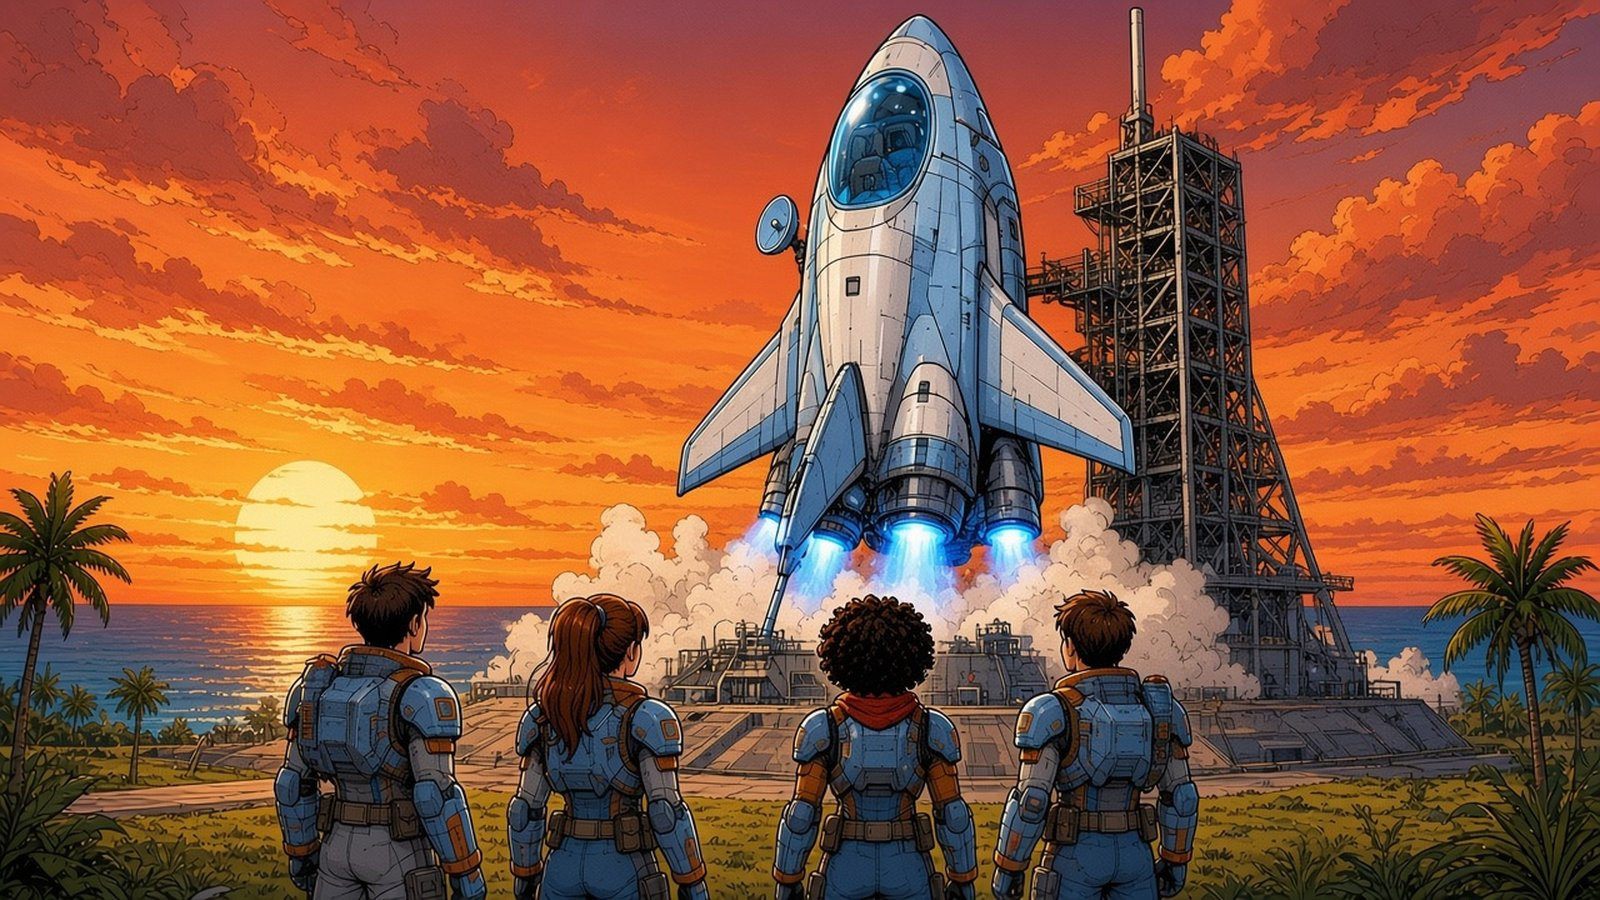
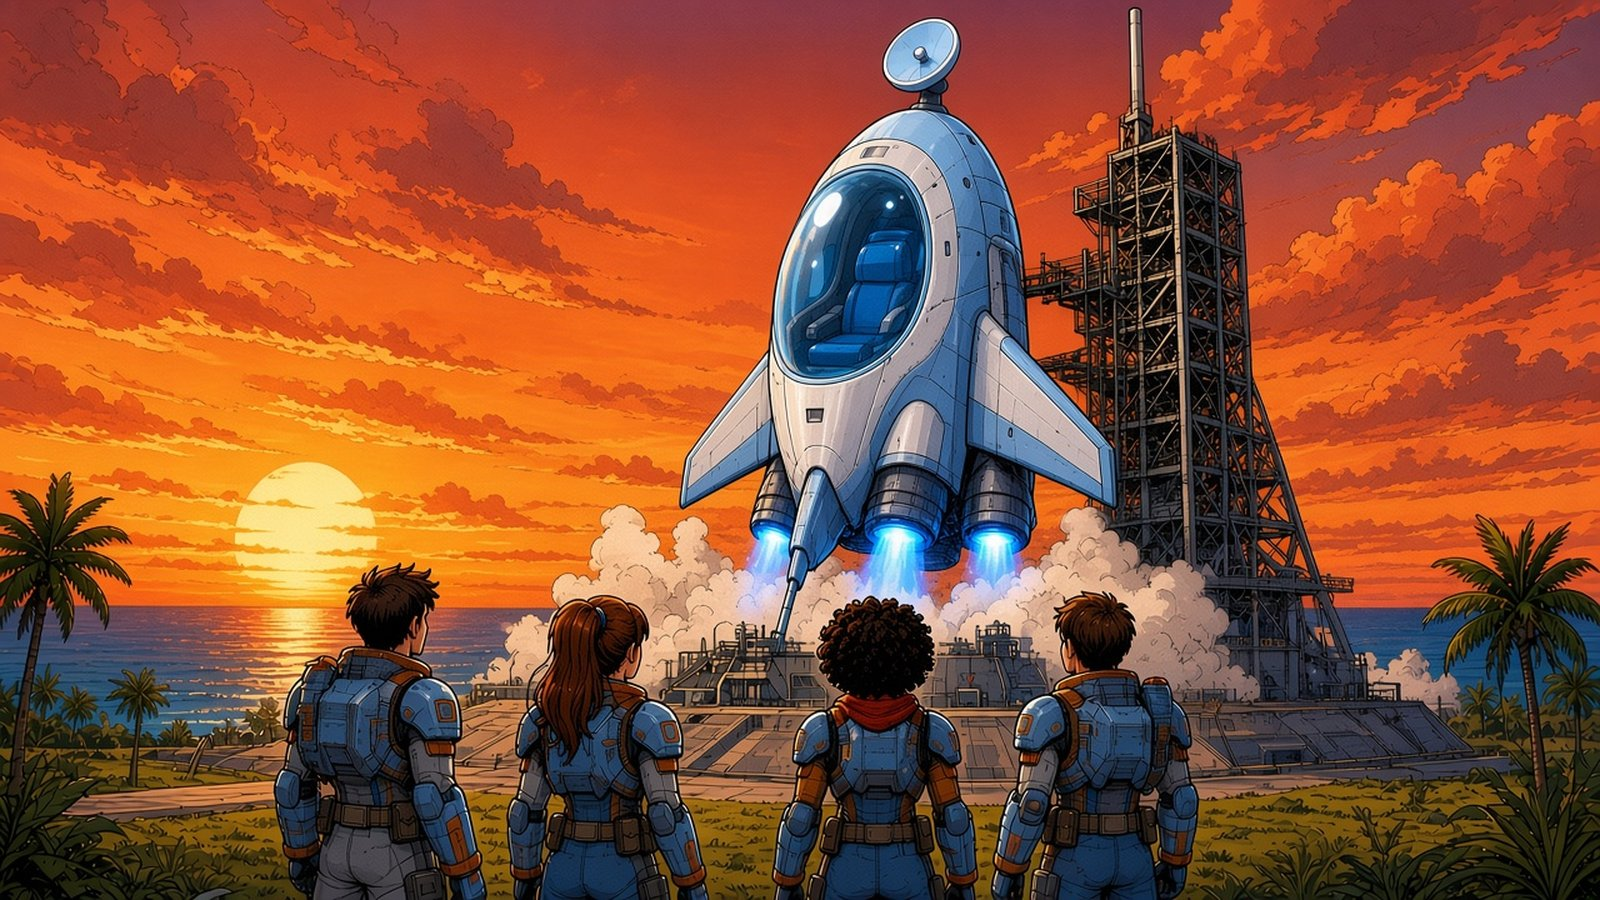
build 6294768

diff --git a/game.js b/game.js
@@ -1100,7 +1100,8 @@ function pilotBust(x,ci){const c=CAPS[ci],sk=c.skin,hr=c.hair,ARM='#8fb8e8';x.sa
  if(c.style==='glasses'){x.strokeStyle='#2a1a10';x.lineWidth=.55;x.beginPath();x.arc(19,-9.2,1.7,0,TAU);x.stroke();}
  x.strokeStyle='#7a3a2a';x.lineWidth=.55;x.beginPath();x.moveTo(18.8,-6.8);x.quadraticCurveTo(19.8,-6.2,20.6,-7);x.stroke();
  x.restore();}
-function shipSpr(){const ci=cap;return pre('ship2_'+ci,104,72,54,36,x=>{const WB='#a9cdf2',W1='#f2f6fb';
+function shipSpr(){const im=IMG.spr_paleblue;if(im&&im.width)return{c:im,w:104,h:70,ax:54,ay:36};return shipSprOld();}
+function shipSprOld(){const ci=cap;return pre('ship2_'+ci,104,72,54,36,x=>{const WB='#a9cdf2',W1='#f2f6fb';
  // wings (behind)
  x.beginPath();x.moveTo(-4,-9);x.quadraticCurveTo(-22,-20,-40,-26);x.quadraticCurveTo(-34,-17,-18,-4);x.closePath();fo(x,lg(x,0,-26,0,-4,['#e8f2ff',WB,'#6a98d0']),1.4);
  x.strokeStyle='rgba(255,255,255,.85)';x.lineWidth=1.4;x.beginPath();x.moveTo(-6,-10);x.quadraticCurveTo(-22,-20,-38,-25);x.stroke();
@@ -1131,8 +1132,8 @@ function shipSpr(){const ci=cap;return pre('ship2_'+ci,104,72,54,36,x=>{const WB
  x.strokeStyle='rgba(255,255,255,.85)';x.lineWidth=1.4;x.beginPath();x.moveTo(-6,13);x.quadraticCurveTo(-24,24,-40,31);x.stroke();
  x.strokeStyle='rgba(30,40,70,.45)';x.lineWidth=.6;x.beginPath();x.moveTo(-14,13);x.lineTo(-26,25);x.stroke();});}
 function ship(x,y,t,sc=1,flame=1){const s=shipSpr(),f=(1+Math.sin(t*40)*.3)*flame;g.save();g.translate(x,y);g.rotate(Math.sin(t*2)*.04);g.scale(sc,sc);
- for(const o of[-9,11]){dglow(-42-8*f,o,10+7*f,'#3f8cff',.95);g.fillStyle='rgba(200,235,255,.95)';g.beginPath();g.ellipse(-40-4*f,o,4+5*f,2.6,0,0,TAU);g.fill();}
- g.drawImage(s.c,-s.ax,-s.ay,s.w,s.h);const bl=(t*4|0)%2;g.fillStyle=bl?'#ffc53d':'#ff4f7b';g.beginPath();g.arc(-10,-27,1.6,0,TAU);g.fill();if(bl)dglow(-10,-27,6,'#ffc53d',.7);g.restore();}
+ const nw=s.c!==undefined&&s.c===IMG.spr_paleblue;for(const[ox,o]of nw?[[-38,-1],[-6,24]]:[[-42,-9],[-42,11]]){dglow(ox-8*f,o,10+7*f,'#3f8cff',.95);g.fillStyle='rgba(200,235,255,.95)';g.beginPath();g.ellipse(ox+2-4*f,o,4+5*f,2.6,0,0,TAU);g.fill();}
+ g.drawImage(s.c,-s.ax,-s.ay,s.w,s.h);if(!nw){const bl=(t*4|0)%2;g.fillStyle=bl?'#ffc53d':'#ff4f7b';g.beginPath();g.arc(-10,-27,1.6,0,TAU);g.fill();if(bl)dglow(-10,-27,6,'#ffc53d',.7);}g.restore();}
 
 // ---------- captains: armored suit + glass bubble helmet ----------
 const IRIS=['#5a3418','#2f8a4a','#3a2010','#6a5a20'];
@@ -2316,6 +2317,7 @@ function drawFoot(){const c=CT,F=c.foot,B=F.B;const sk=SHAKE>0?[rnd(-1,1)*SHAKE*
 function footBtns(){const b=btns();const draw=(o,label,on)=>{g.globalAlpha=.62;circ(o.x,o.y,o.r+2,OL);g.fillStyle=lg(g,0,o.y-o.r,0,o.y+o.r,on?['#7fe8ff','#2a8ab8']:['#3a4a9a','#141c4a']);g.beginPath();g.arc(o.x,o.y,o.r,0,TAU);g.fill();g.globalAlpha=.92;txt(label,o.x,o.y,o.r*.42,'#ffffff');g.globalAlpha=1;};
  draw(b.left,'◀',held('left'));draw(b.right,'▶',held('right'));draw(b.jump,'JUMP',held('jump'));draw(b.shoot,'FIRE',held('shoot'));}
 // ================= MISSION 7: VESTA PEAK (buggy run; refs: crater-buggy, vorr-buggy, stone-golem, comet) =================
+loadImg('spr_paleblue','assets/sprites/paleblue.png');
 ['buggy','buggy-jump','golem','golem-slam','golem-core','gang','gang-fire','gang-crash','comet-walk'].forEach(k=>loadImg('spr_'+k,'assets/sprites/'+k+'.png'));
 const BX=170,BSEC=[{n:'GROOVE CANYON',a:0},{n:'LAVA TUBES',a:7000},{n:'CRATER CLIMB',a:14000},{n:'THE PEAK',a:20400}],
  BGAPS=[[2900,240],[4700,200],[6300,220],[7800,200],[16400,200],[18300,220]],BMAG=[[9000,10600],[11800,13100]],BEND=20400,BVAULT=13800;

diff --git a/index.html b/index.html
@@ -5,4 +5,4 @@
 canvas{position:absolute;}#rot{display:none;position:fixed;inset:0;color:#ffc53d;font:bold 22px sans-serif;align-items:center;justify-content:center;text-align:center;background:#090c26}
 @media (orientation:portrait){#rot{display:flex}}</style></head><body>
 <canvas id="c"></canvas><div id="rot">Turn your device sideways<br>to play Pale Blue: Crystal Defenders</div>
-<script src="game.js?v=230e031"></script></body></html>
+<script src="game.js?v=6294768"></script></body></html>
